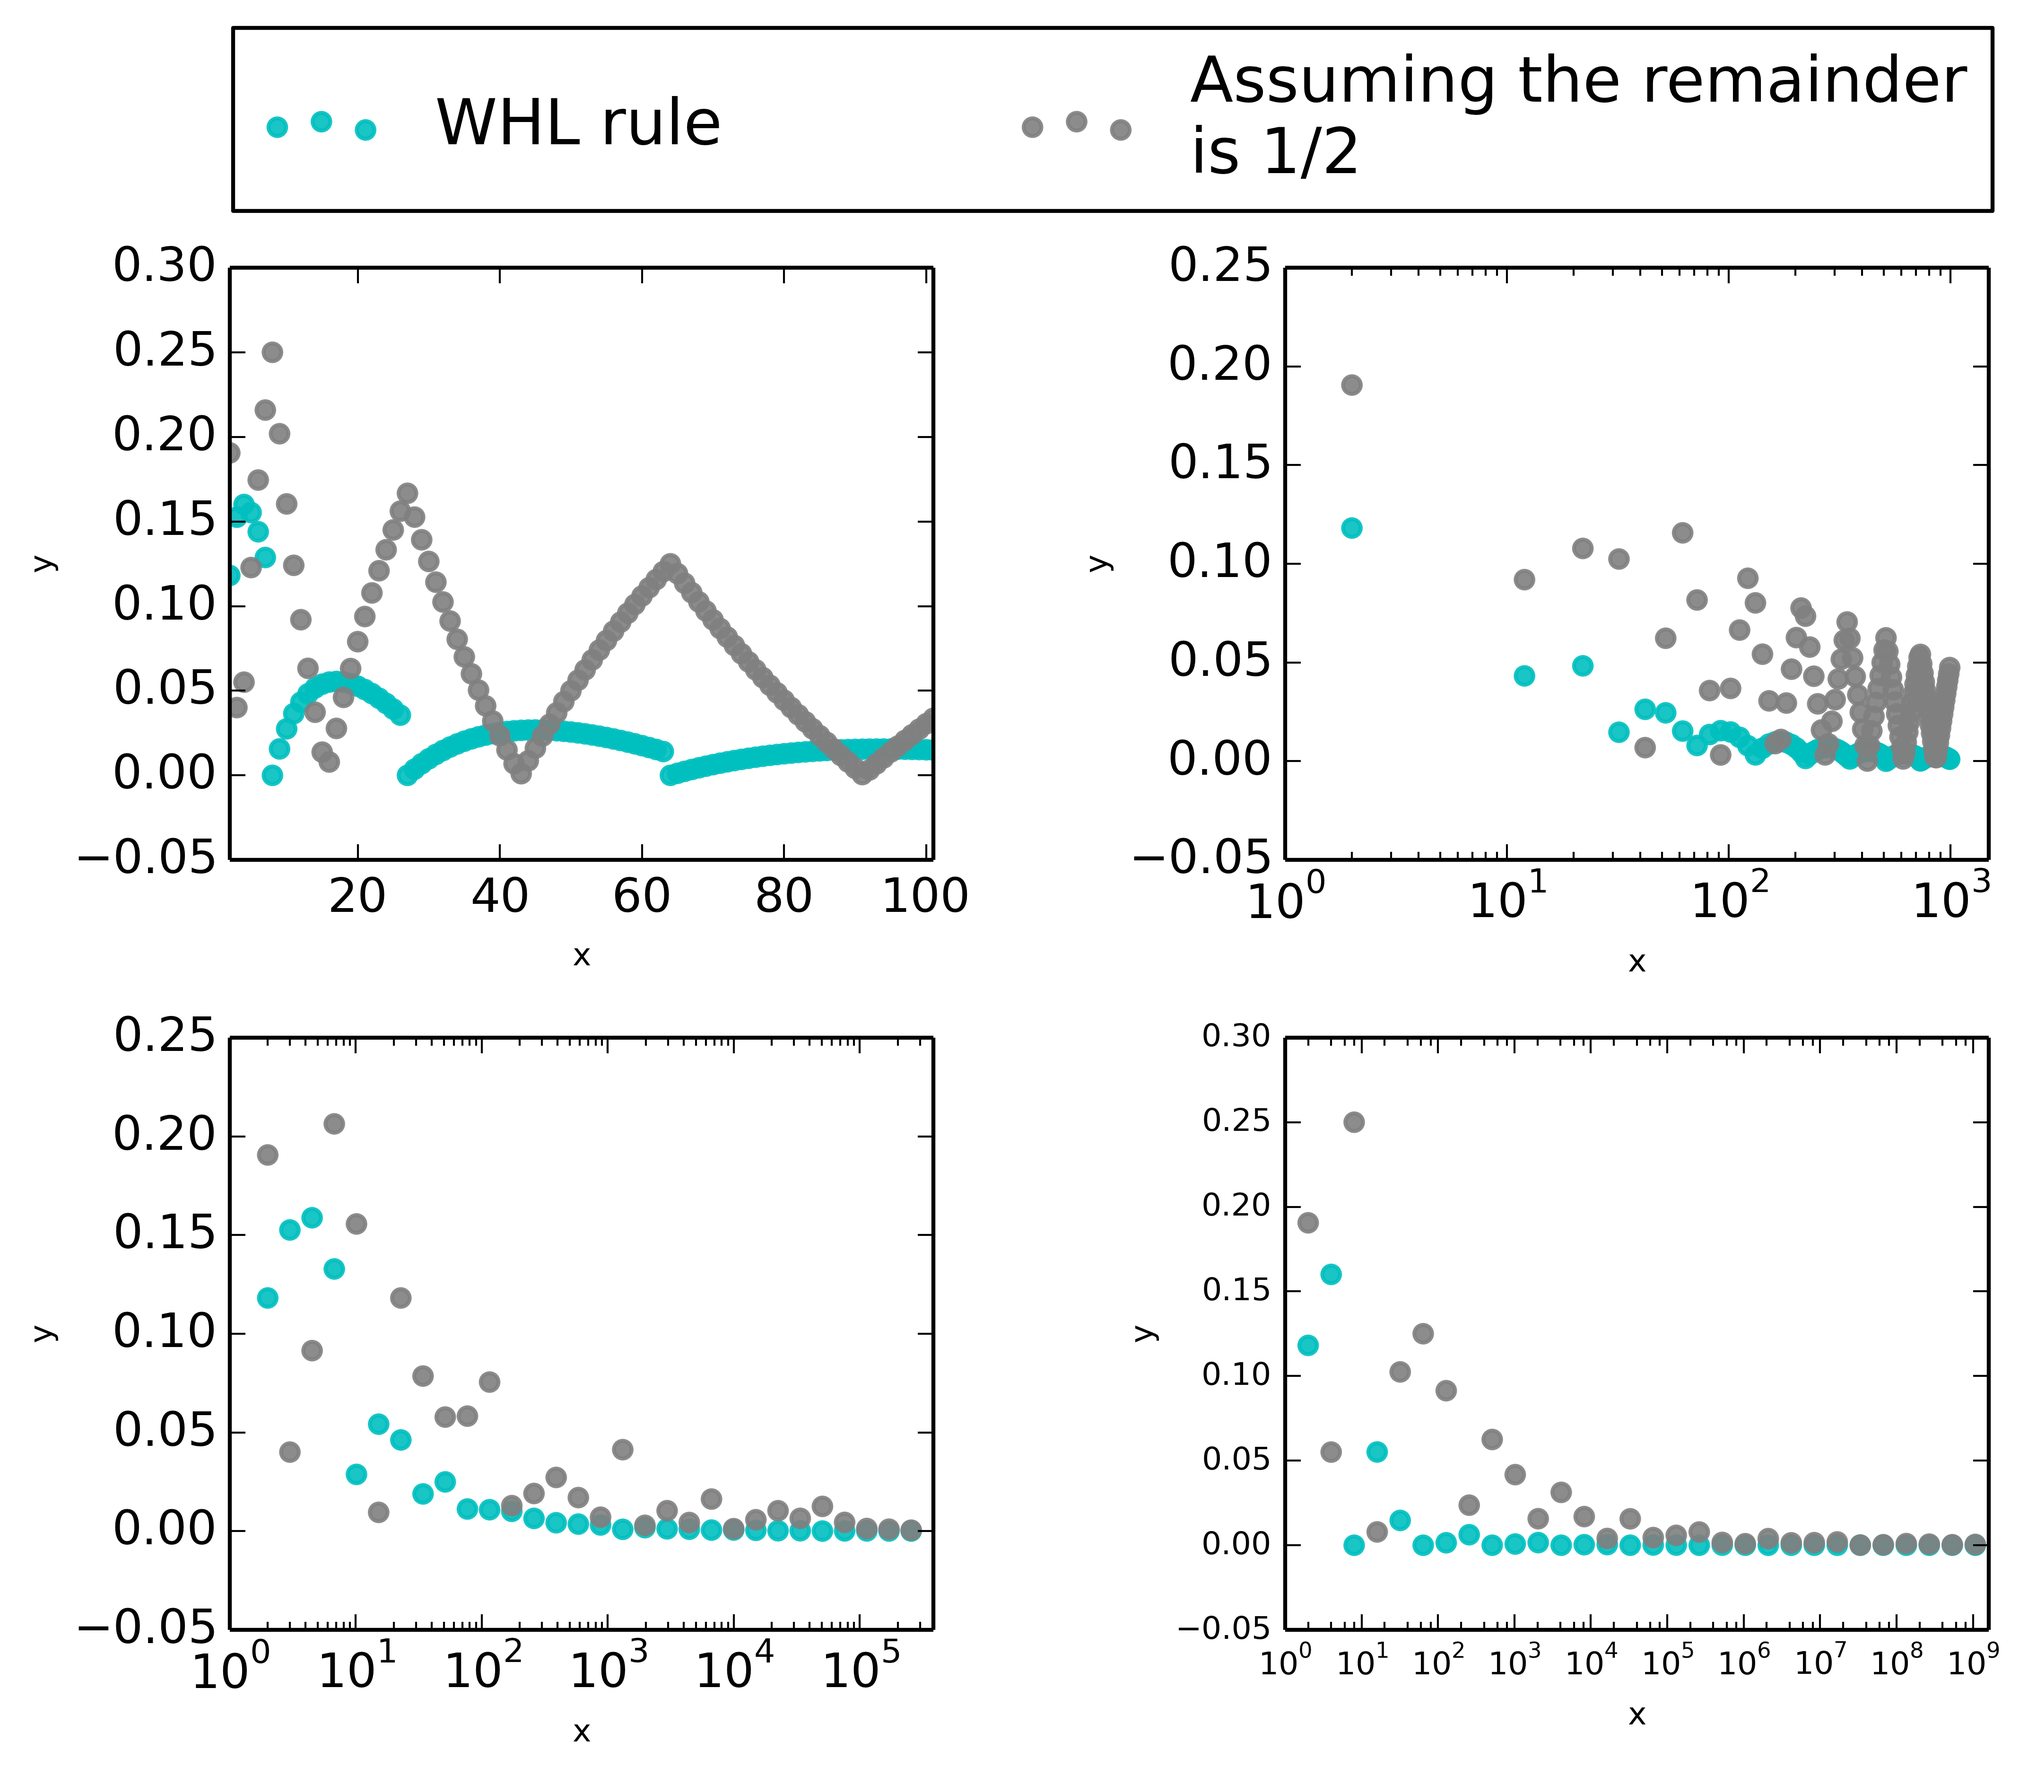
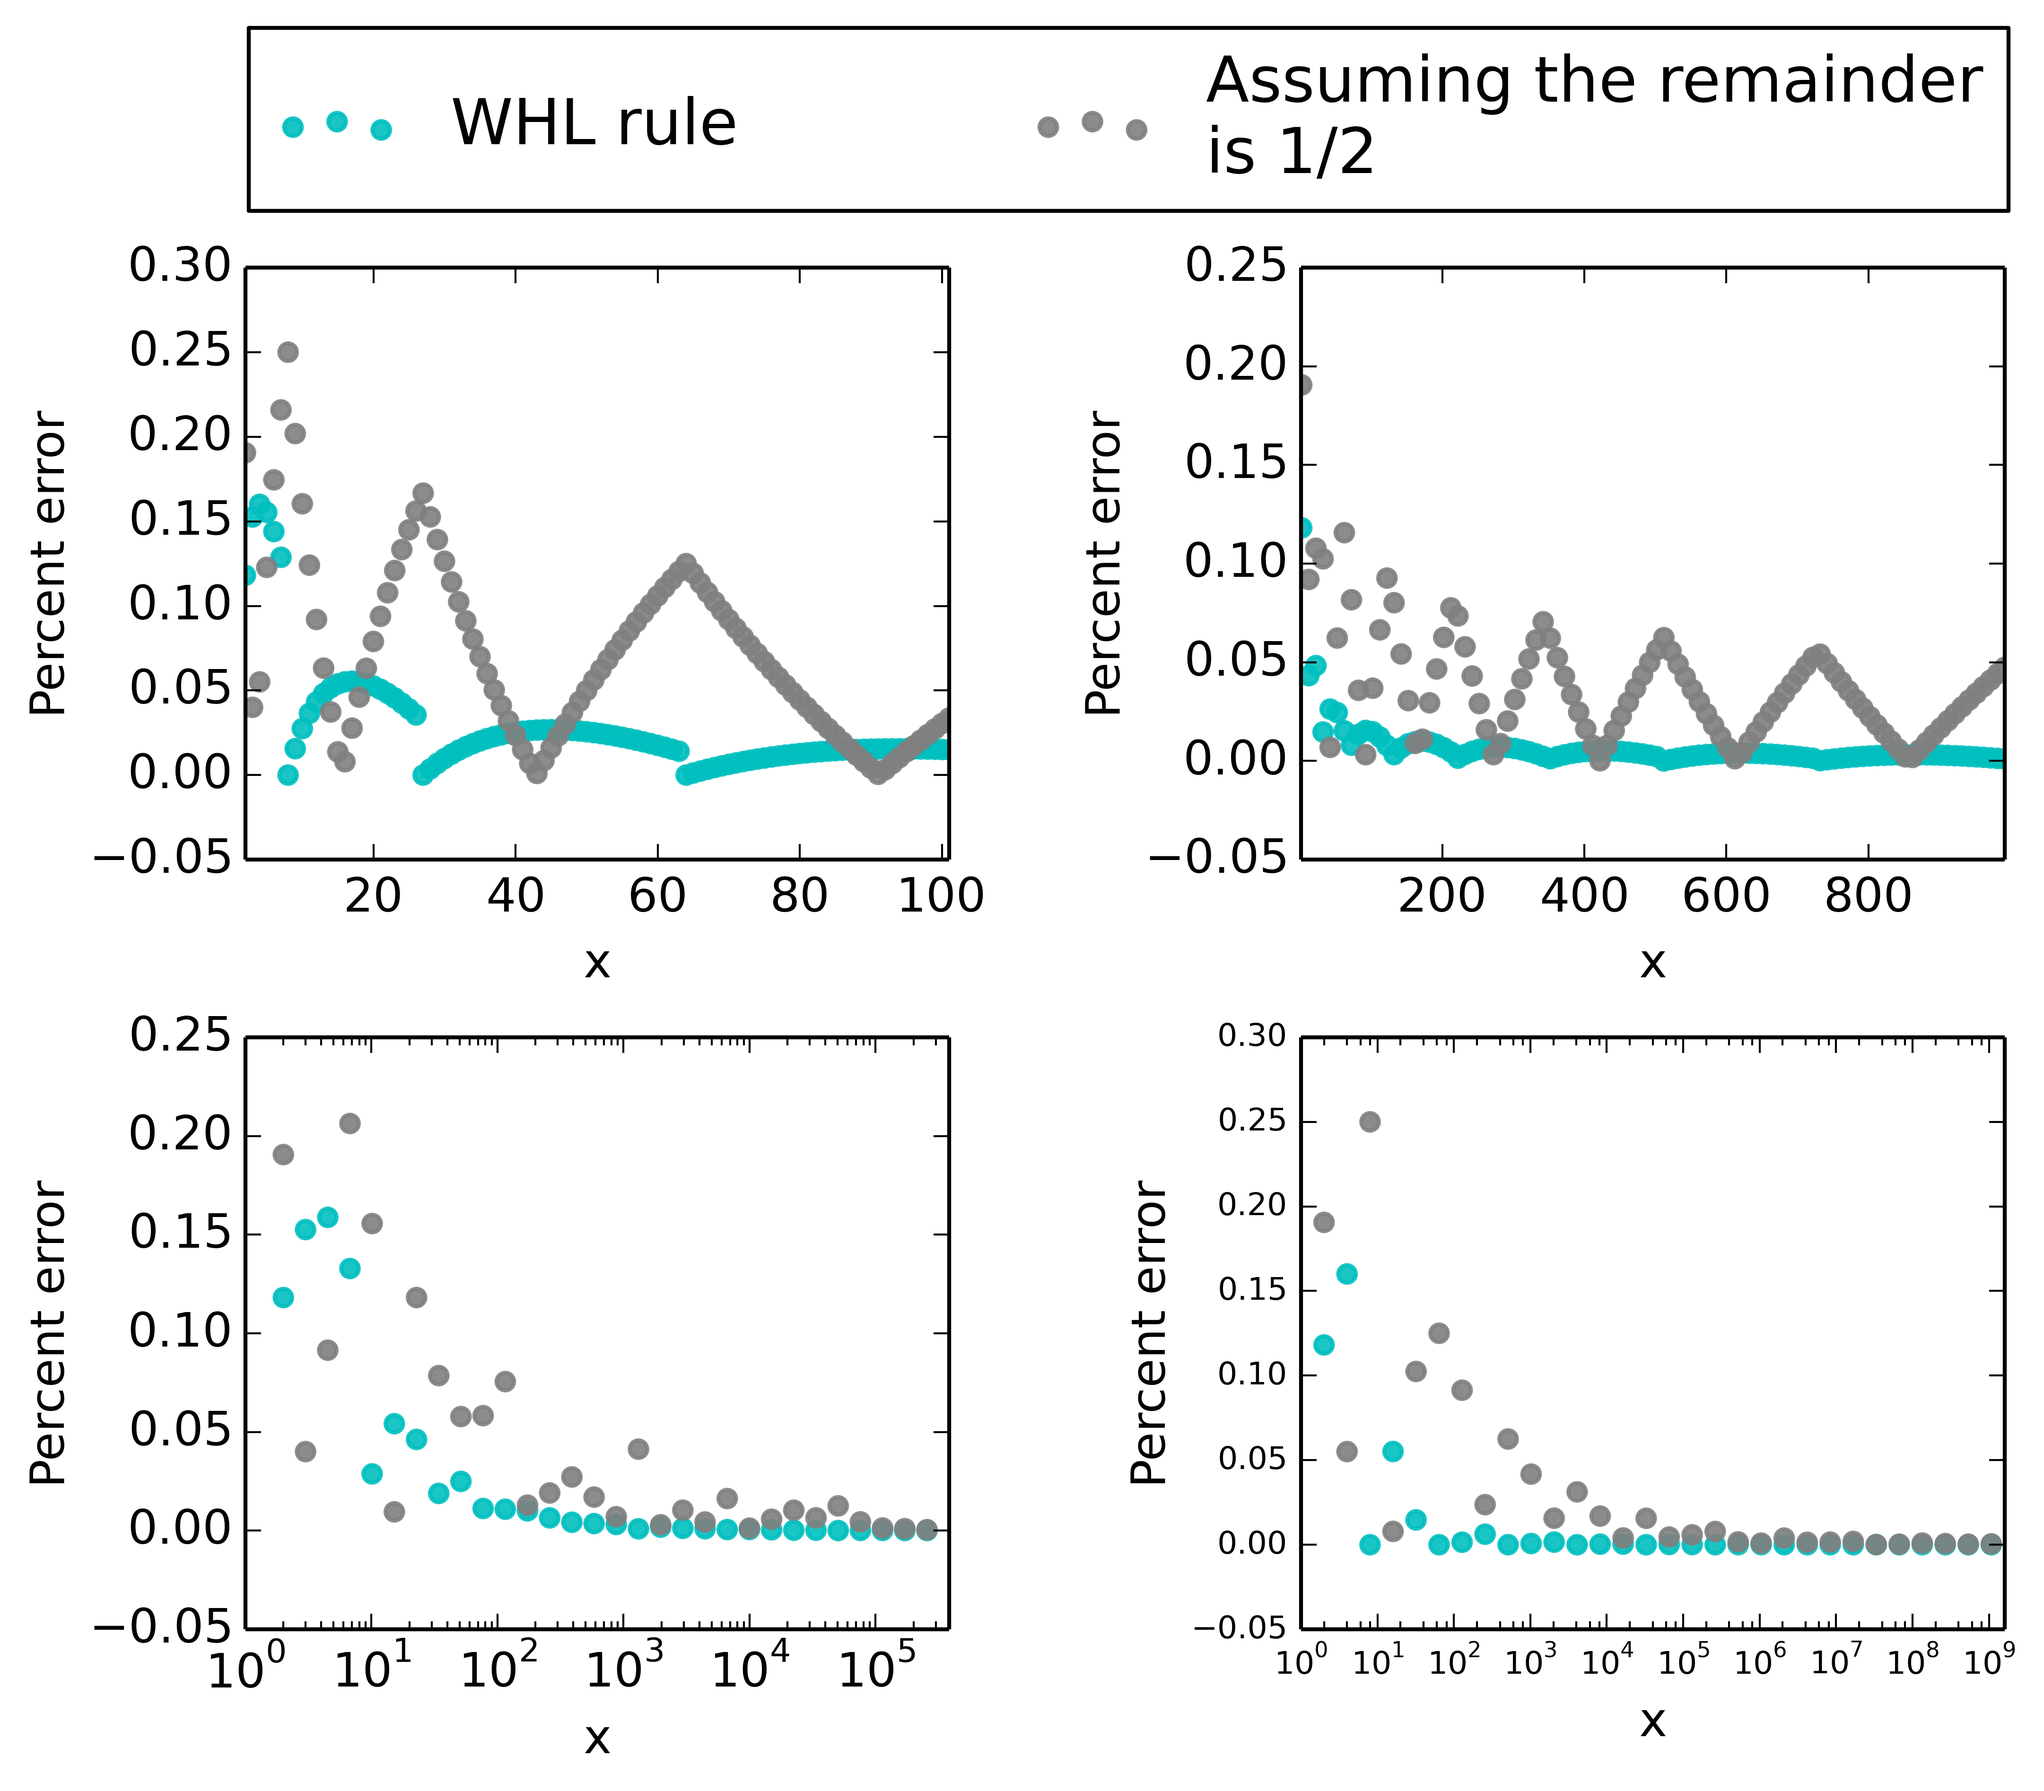
added new figs -KL

diff --git a/Roots/code/ErrorComparison.py b/Roots/code/ErrorComparison.py
@@ -15,6 +15,7 @@ ks = [3]
 
 for i, k in enumerate(ks):
 
+    fs = 12
     fig = plt.figure()
     ax = fig.add_subplot(2,2,1)
 
@@ -39,12 +40,12 @@ for i, k in enumerate(ks):
 
     #plt.scatter(xs, rts, s=50, color='m', facecolors='none', label='root'+str(k))
     plt.scatter(xs, WLs, color='c', alpha=0.9, label='WHL rule')
-    #plt.scatter(xs, guesses, color='grey', alpha=0.9, label='Random guesses \nfor the remainder')
-    plt.scatter(xs, guesses, color='grey', alpha=0.9, label='Assuming the remainder\nis 1/2')
+    plt.scatter(xs, guesses, color='grey', alpha=0.9, label='Random guesses \nfor the remainder')
+    #plt.scatter(xs, guesses, color='grey', alpha=0.9, label='Assuming the remainder\nis 1/2')
     #plt.yscale('log')
     #plt.xscale('log')
-    plt.xlabel('x', fontsize=8)
-    plt.ylabel('y', fontsize=8)
+    plt.xlabel('x', fontsize=fs)
+    plt.ylabel('Percent error', fontsize=fs)
     plt.xlim(min(xs), max(xs))
     #plt.ylim(min(WLs), max(rts))
 
@@ -81,10 +82,10 @@ for i, k in enumerate(ks):
     plt.scatter(xs, WLs, color='c', alpha=0.9)
     plt.scatter(xs, guesses, color='grey', alpha=0.9)
     #plt.yscale('log')
-    plt.xscale('log')
-    plt.xlabel('x', fontsize=8)
-    plt.ylabel('y', fontsize=8)
-    plt.xlim(min(xs)*0.5, max(xs)*1.5)
+    #plt.xscale('log')
+    plt.xlabel('x', fontsize=fs)
+    plt.ylabel('Percent error', fontsize=fs)
+    plt.xlim(min(xs)*0.5, max(xs))
     #plt.ylim(min(WLs)*0.5, max(rts)*1.5)
 
 
@@ -114,8 +115,8 @@ for i, k in enumerate(ks):
     plt.scatter(xs, guesses, color='grey', alpha=0.9)
     #plt.yscale('log')
     plt.xscale('log')
-    plt.xlabel('x', fontsize=8)
-    plt.ylabel('y', fontsize=8)
+    plt.xlabel('x', fontsize=fs)
+    plt.ylabel('Percent error', fontsize=fs)
     plt.xlim(min(xs)*0.5, max(xs)*1.5)
     #plt.ylim(min(WLs)*0.5, max(rts)*1.5)
 
@@ -145,14 +146,14 @@ for i, k in enumerate(ks):
     plt.scatter(xs, guesses, color='grey', alpha=0.9)
     #plt.yscale('log')
     plt.xscale('log')
-    plt.xlabel('x', fontsize=8)
-    plt.ylabel('y', fontsize=8)
+    plt.xlabel('x', fontsize=fs)
+    plt.ylabel('Percent error', fontsize=fs)
     plt.xlim(min(xs)*0.5, max(xs)*1.5)
     #plt.ylim(min(WLs)*0.5, max(rts)*1.5)
 
 
     plt.tick_params(axis='both', which='major', labelsize=8)
     plt.subplots_adjust(wspace=0.5, hspace=0.3)
-    plt.savefig(mydir+'/GitHub/PeasantMath/Roots/figs/ErrorAnalysis/error_and_0.5remainder-Root_'+str(k)+'.png', dpi=600, bbox_inches = 'tight')#, pad_inches=0)
+    plt.savefig(mydir+'/GitHub/PeasantMath/Roots/figs/ErrorAnalysis/error_and_random_remainder-Root_'+str(k)+'.png', dpi=600, bbox_inches = 'tight')#, pad_inches=0)
     print 'finished root',k
     #plt.show()

diff --git a/Roots/code/functions.py b/Roots/code/functions.py
@@ -71,8 +71,8 @@ def Guess(x, k):
     decreasing error in the WHL algorithm is meaningful """
 
     n = closest_perfect_kth_root(x, k) # x is the number of interest, k is the power
-    #a = np.random.uniform(0,1)
-    a = 0.5
+    a = np.random.uniform(0,1)
+    #a = 0.5
     a += n
 
     return float(a)
